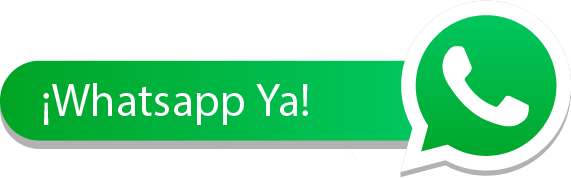
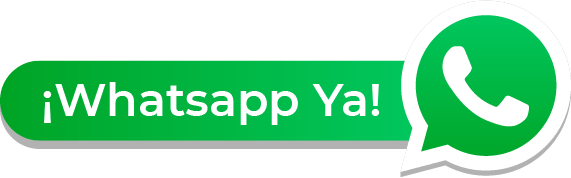
correcion de estilos

Changed region(s): [[0.0595, 0.4494, 0.6848, 0.7022]]

diff --git a/assets/css/main.css b/assets/css/main.css
@@ -1,5 +1,5 @@
 html body {
-  font-family: 'Open Sans', sans-serif !important; }
+  font-family: 'Quicksand', sans-serif; }
 
 body header .logo-contact {
   margin-top: 2%;
@@ -231,14 +231,14 @@ body main .columna-2 {
         font-weight: bold; }
 
 body main .slider-testimonio {
-  height: 700px;
+  height: 750px;
   background: linear-gradient(to top, #EBEBEB 0%, #78D1DF 100%); }
   @media (max-width: 667px) {
     body main .slider-testimonio {
       height: 500px; } }
   body main .slider-testimonio .testimonials .title-testimonio {
-    margin-left: 18%;
-    margin-top: 200px; }
+    margin-left: 10%;
+    margin-top: 179px; }
     @media (max-width: 667px) {
       body main .slider-testimonio .testimonials .title-testimonio {
         margin-top: 80px;
@@ -256,21 +256,30 @@ body main .slider-testimonio {
       margin-top: -62px; }
     body main .slider-testimonio .testimonials .title-testimonio .testimonio {
       margin-left: 4%;
-      width: 42%; }
+      width: 36%;
+      font-weight: bold; }
       @media (max-width: 667px) {
         body main .slider-testimonio .testimonials .title-testimonio .testimonio {
           width: 84%; } }
+      @media (min-width: 668px) and (max-width: 1024px) {
+        body main .slider-testimonio .testimonials .title-testimonio .testimonio {
+          font-size: 18px; } }
+      @media (min-width: 1025px) {
+        body main .slider-testimonio .testimonials .title-testimonio .testimonio {
+          font-size: 18px; } }
     body main .slider-testimonio .testimonials .title-testimonio img {
-      margin-left: 21%; }
+      margin-left: 23%; }
       @media (max-width: 667px) {
         body main .slider-testimonio .testimonials .title-testimonio img {
           display: none; } }
       @media (min-width: 668px) and (max-width: 1024px) {
         body main .slider-testimonio .testimonials .title-testimonio img {
-          margin-top: -290px; } }
+          margin-top: -200px;
+          width: 67%; } }
       @media (min-width: 1025px) {
         body main .slider-testimonio .testimonials .title-testimonio img {
-          margin-top: -272px; } }
+          margin-top: -274px;
+          width: 67%; } }
 
 body main .block-services {
   color: #FFFFFF; }

diff --git a/assets/sass/components/slider-testimonio.scss b/assets/sass/components/slider-testimonio.scss
@@ -1,15 +1,15 @@
 body {
     main {
         .slider-testimonio {
-            height: 700px;
+            height: 750px;
             background: linear-gradient(to top, #EBEBEB 0%, #78D1DF 100%);
             @include breakpoint(phone) {
                 height: 500px;
             }
             .testimonials {
                 .title-testimonio {
-                    margin-left: 18%;
-                    margin-top: 200px;
+                    margin-left: 10%;
+                    margin-top: 179px;
                     @include breakpoint(phone) {
                         margin-top: 80px;
                         margin-left: 8%;
@@ -31,21 +31,30 @@ body {
                     }
                     .testimonio {
                         margin-left: 4%;
-                        width: 42%;
+                        width: 36%;
+                        font-weight: bold;
                         @include breakpoint(phone) {
                             width: 84%;
                         }
+                        @include breakpoint(tablet) {
+                            font-size: 18px;
+                        }
+                        @include breakpoint(desktop) {
+                            font-size: 18px;
+                        }
                     }
                     img {
-                        margin-left: 21%;
+                        margin-left: 23%;
                         @include breakpoint(phone) {
                             display: none;
                         }
                         @include breakpoint(tablet) {
-                            margin-top: -290px;
+                            margin-top: -200px;
+                            width: 67%;
                         }
                         @include breakpoint(desktop) {
-                            margin-top: -272px;
+                            margin-top: -274px;
+                            width: 67%;
                         }
                     }
                 }

diff --git a/index.html b/index.html
@@ -13,7 +13,7 @@
     <script src="https://cdnjs.cloudflare.com/ajax/libs/popper.js/1.14.3/umd/popper.min.js" integrity="sha384-ZMP7rVo3mIykV+2+9J3UJ46jBk0WLaUAdn689aCwoqbBJiSnjAK/l8WvCWPIPm49" crossorigin="anonymous"></script>
     <script src="https://stackpath.bootstrapcdn.com/bootstrap/4.1.3/js/bootstrap.min.js" integrity="sha384-ChfqqxuZUCnJSK3+MXmPNIyE6ZbWh2IMqE241rYiqJxyMiZ6OW/JmZQ5stwEULTy" crossorigin="anonymous"></script>
     <link rel="stylesheet" href="https://use.fontawesome.com/releases/v5.3.1/css/all.css" integrity="sha384-mzrmE5qonljUremFsqc01SB46JvROS7bZs3IO2EmfFsd15uHvIt+Y8vEf7N7fWAU" crossorigin="anonymous">
-    <link href="https://fonts.googleapis.com/css?family=Open+Sans" rel="stylesheet">
+    <link href="https://fonts.googleapis.com/css?family=Quicksand" rel="stylesheet">
 </head>
 
 <body>

diff --git a/assets/sass/base/globales.scss b/assets/sass/base/globales.scss
@@ -1,5 +1,5 @@
 html {
     body {
-        font-family: 'Open Sans', sans-serif !important;
+        font-family: 'Quicksand', sans-serif;
     }
 }
